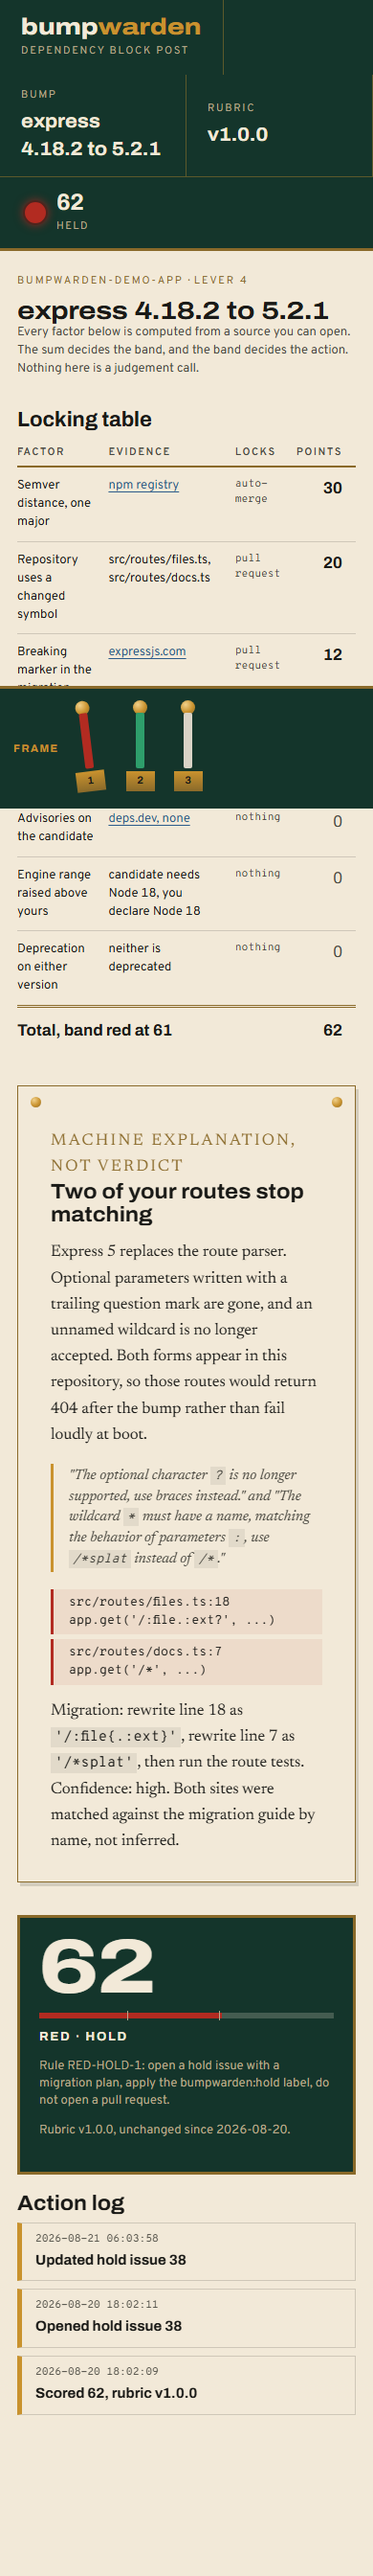
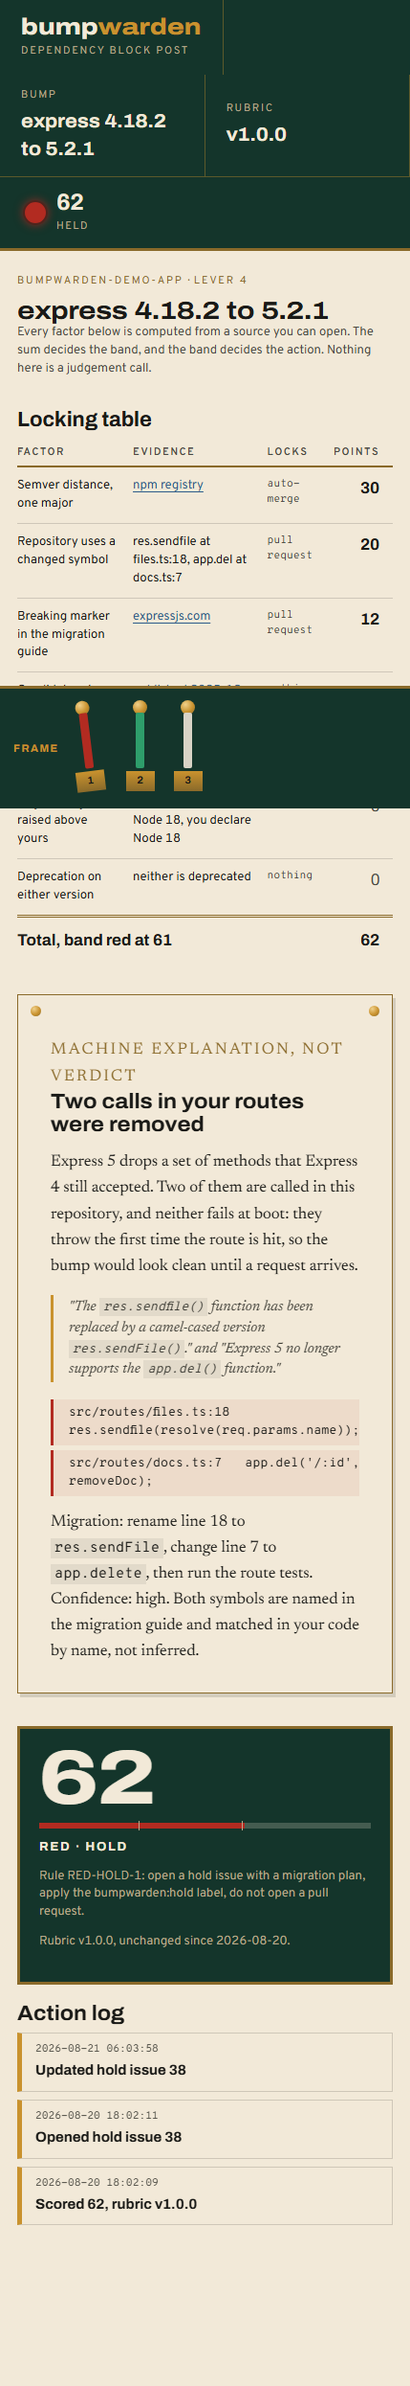
fix(design): show evidence the usage matcher can actually find
The mockup credited express with a twenty point usage match on the route
syntax change, but the mechanical matcher works on identifiers, and neither a
bare question mark nor a wildcard is one. It would have published a breakdown
the scorer cannot reproduce. Both call sites are now res.sendfile and app.del,
which are real Express 5 removals, are named in the migration guide, and do
match.

Changed region(s): [[0.0, 0.0, 1.0, 0.9582], [0.5538, 0.0309, 0.7077, 0.0618]]

diff --git a/design/mockups/bump.html b/design/mockups/bump.html
@@ -91,7 +91,7 @@
                   </tr>
                   <tr>
                     <td>Repository uses a changed symbol</td>
-                    <td>src/routes/files.ts, src/routes/docs.ts</td>
+                    <td>res.sendfile at files.ts:18, app.del at docs.ts:7</td>
                     <td class="locks">pull request</td>
                     <td class="pts">20</td>
                   </tr>
@@ -142,27 +142,25 @@
 
               <article class="notice">
                 <p class="notice__meta">Machine explanation, not verdict</p>
-                <h2>Two of your routes stop matching</h2>
+                <h2>Two calls in your routes were removed</h2>
                 <p>
-                  Express 5 replaces the route parser. Optional parameters written with a trailing
-                  question mark are gone, and an unnamed wildcard is no longer accepted. Both forms
-                  appear in this repository, so those routes would return 404 after the bump rather
-                  than fail loudly at boot.
+                  Express 5 drops a set of methods that Express 4 still accepted. Two of them are
+                  called in this repository, and neither fails at boot: they throw the first time
+                  the route is hit, so the bump would look clean until a request arrives.
                 </p>
                 <blockquote>
-                  "The optional character <code>?</code> is no longer supported, use braces
-                  instead." and "The wildcard <code>*</code> must have a name, matching the behavior
-                  of parameters <code>:</code>, use <code>/*splat</code> instead of
-                  <code>/*</code>."
+                  "The <code>res.sendfile()</code> function has been replaced by a camel-cased
+                  version <code>res.sendFile()</code>." and "Express 5 no longer supports the
+                  <code>app.del()</code> function."
                 </blockquote>
                 <ul class="evidence">
-                  <li>src/routes/files.ts:18 &nbsp; app.get('/:file.:ext?', ...)</li>
-                  <li>src/routes/docs.ts:7 &nbsp; app.get('/*', ...)</li>
+                  <li>src/routes/files.ts:18 &nbsp; res.sendfile(resolve(req.params.name));</li>
+                  <li>src/routes/docs.ts:7 &nbsp; app.del('/:id', removeDoc);</li>
                 </ul>
                 <p>
-                  Migration: rewrite line 18 as <code>'/:file{.:ext}'</code>, rewrite line 7 as
-                  <code>'/*splat'</code>, then run the route tests. Confidence: high. Both sites
-                  were matched against the migration guide by name, not inferred.
+                  Migration: rename line 18 to <code>res.sendFile</code>, change line 7 to
+                  <code>app.delete</code>, then run the route tests. Confidence: high. Both symbols
+                  are named in the migration guide and matched in your code by name, not inferred.
                 </p>
               </article>
             </div>

diff --git a/design/mockups/project.html b/design/mockups/project.html
@@ -140,7 +140,7 @@
               <span class="bar__plate">4</span>
               <span class="bar__deps">
                 <span class="bar__dep">express</span>
-                <span class="bar__why">Route syntax changed, two of your routes use it</span>
+                <span class="bar__why">Two removed methods are called in your routes</span>
               </span>
               <span class="bar__move"><b>4.18.2</b> to <b>5.2.1</b></span>
               <span class="bar__score"
